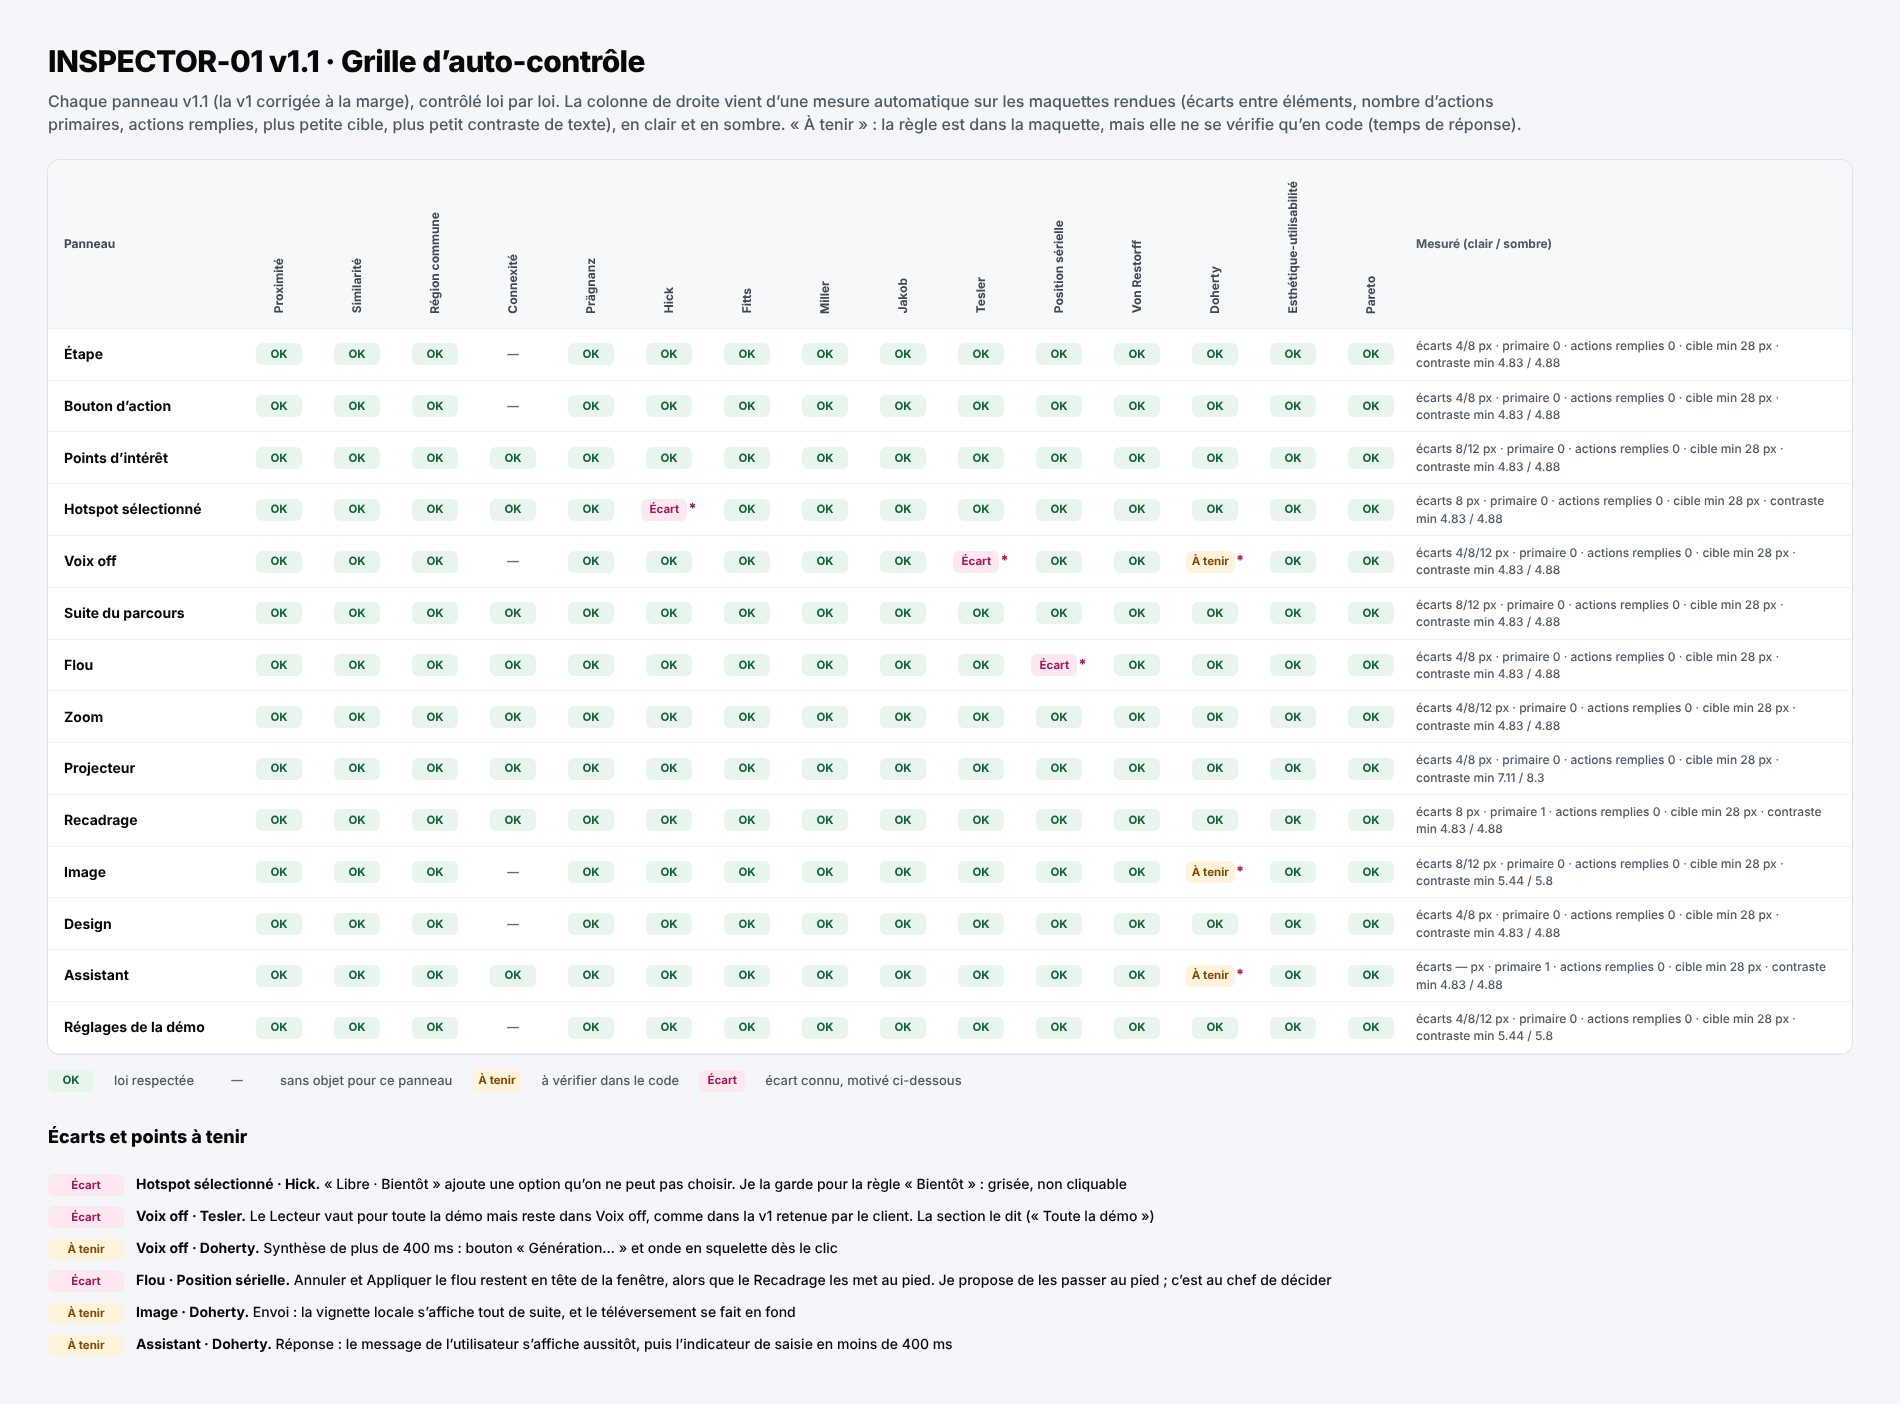
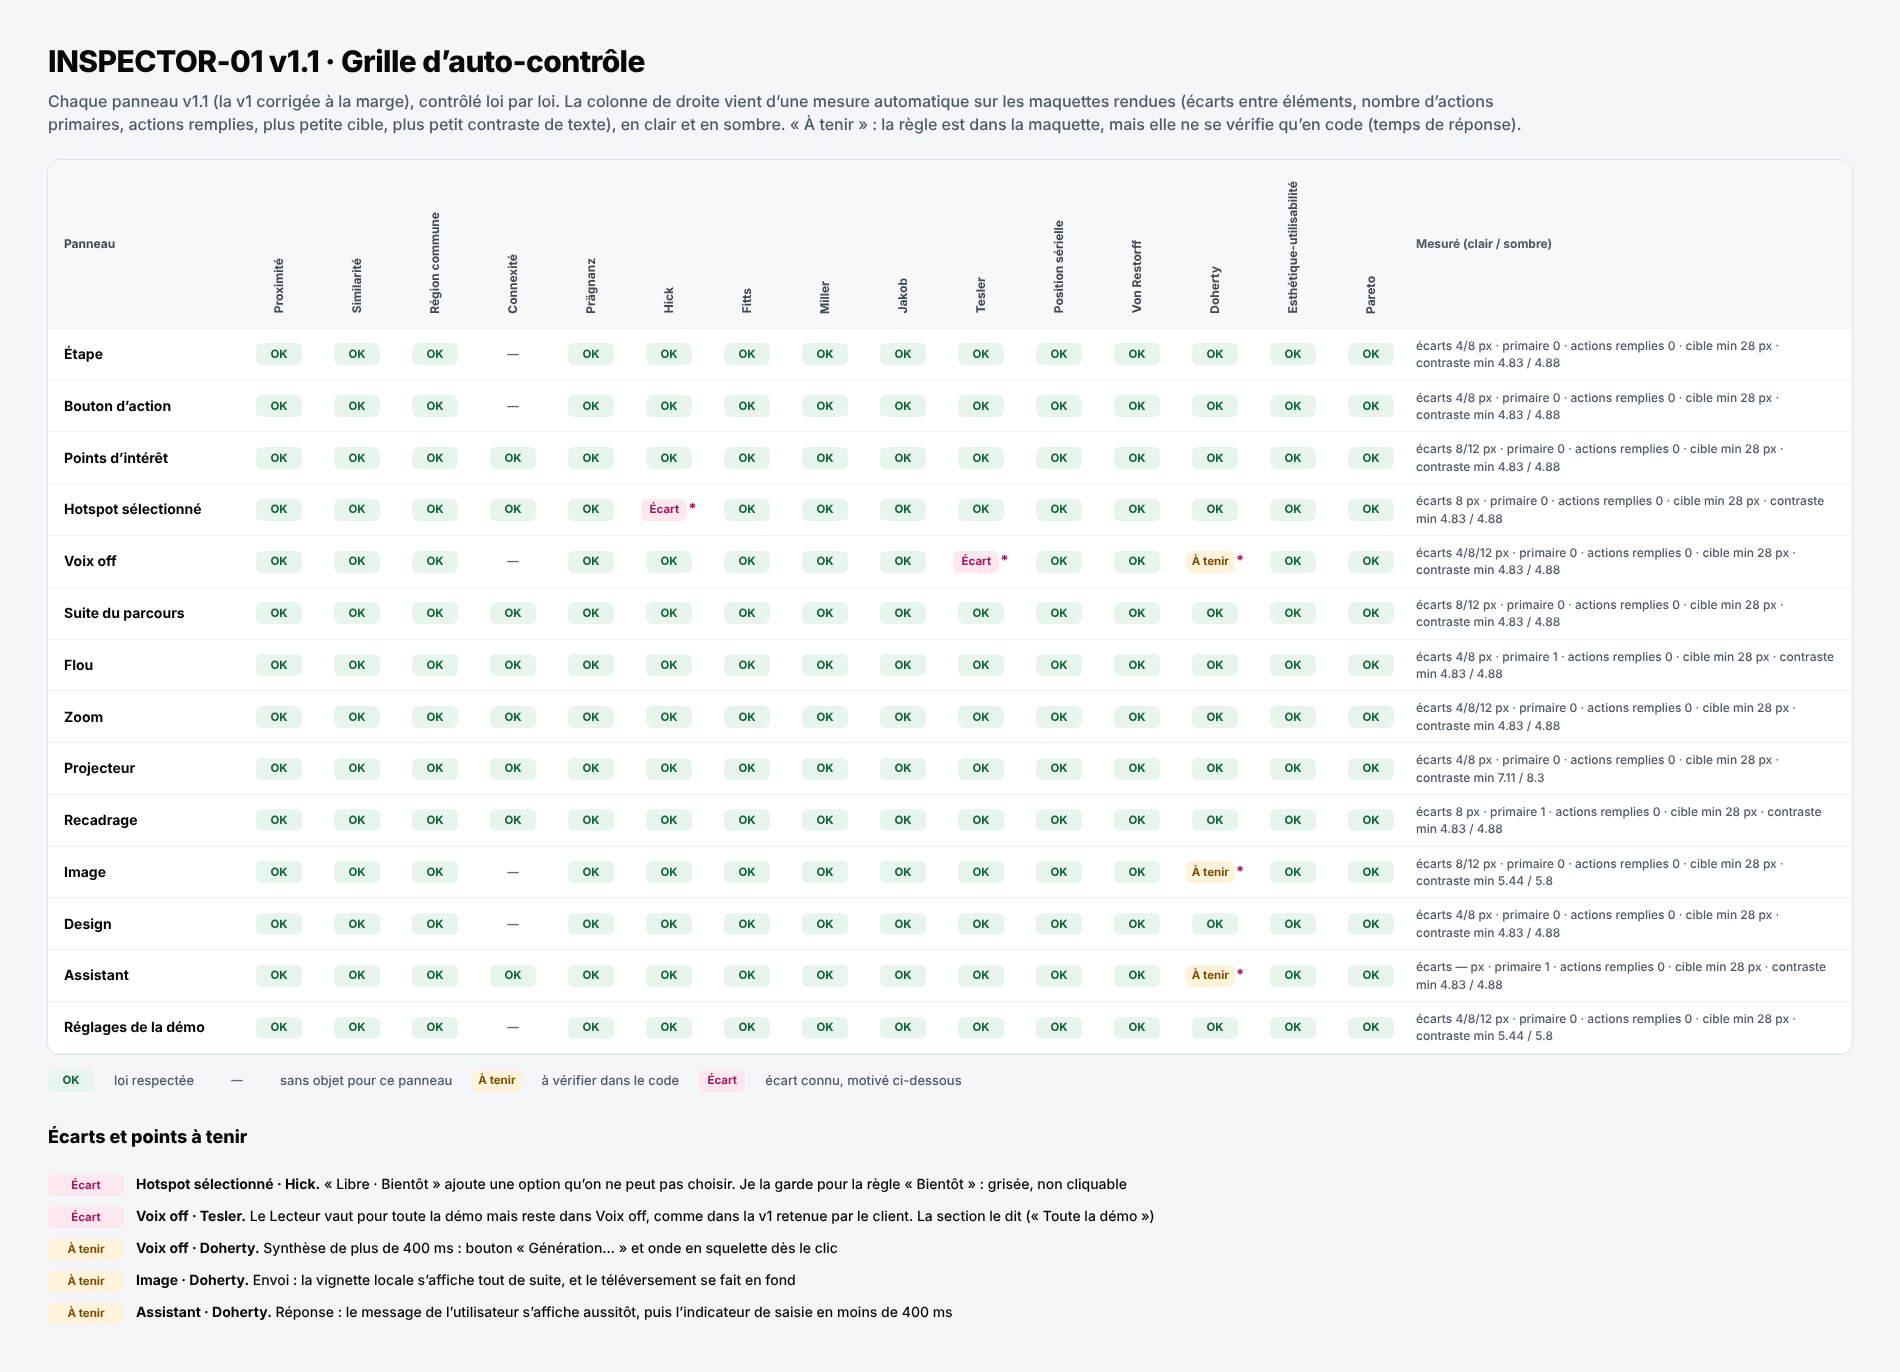
INSPECTOR-01 v1.1 : région « Synthèse » dans Voix off, actions du Flou au pied (décision du chef)
Claude-Session: https://claude.ai/code/session_016yn81XNDaqi4emq7ho6CNv

diff --git a/docs/ux/propositions/inspector-01/v1-1.css b/docs/ux/propositions/inspector-01/v1-1.css
@@ -64,3 +64,8 @@
 .backrow .ib { margin-left: -8px; }
 .row .lab.wide { width: auto; flex: 1; font-size: 12px; }
 .btn.line.sm { height: 28px; }
+
+/* Région commune : Langue et Voix de la synthèse sur une même surface */
+.region { border-radius: var(--fd-radius-surface); background: var(--fd-insp-bg); box-shadow: inset 0 0 0 1px var(--fd-insp-sep); padding: 4px 8px 8px; display: flex; flex-direction: column; gap: 4px; }
+.region .rt { font-size: 11px; font-weight: 650; color: var(--fd-insp-meta); height: 20px; display: flex; align-items: center; }
+.region .lab { width: 76px; }

diff --git a/docs/ux/specs/inspector-01.md b/docs/ux/specs/inspector-01.md
@@ -27,7 +27,7 @@ Source : lawsofux.com/fr. La v1 est gardée telle quelle ; chaque loi ne change 
 | --- | --- | --- |
 | **Proximité** | L'écart dit le lien : **4 px** entre deux lignes d'un groupe, **8 px** du titre de section au contenu, **12 px** d'un groupe à l'action qui en dépend, **25 px** entre deux sections (12 + filet + 12). | Titre → contenu passe de 6 à 8 px ; l'action passe de 4 à 12 px sous son groupe (« Régénérer la voix », « Ajouter un hotspot », « Ajouter une règle », « Centrer sur le hotspot », « Remplacer la capture »…). |
 | **Similarité** | Un champ est gris rempli, sans contour (v1). Une action ne l'est **jamais** : secondaire = contour de 1 px sur fond transparent (`.btn.line`), primaire = fond de marque, destructive = texte rouge au pied. | « Régénérer la voix », « Garder l'actuelle », « Annuler » et « Ignorer » perdent leur fond gris et prennent un contour. Tous les réglages oui / non sont des interrupteurs (la case « Animation de pulsation » du Hotspot en devient un). |
-| **Région commune** | Ce qui forme un tout est posé sur une même surface : carte de la voix, carte « Nouvelle voix », chaque règle de Suite du parcours, la proposition de l'Assistant. | Les règles de Suite du parcours ont chacune leur surface encadrée. |
+| **Région commune** | Ce qui forme un tout est posé sur une même surface : carte de la voix, carte « Nouvelle voix », chaque règle de Suite du parcours, la proposition de l'Assistant. | Voix off : Langue et Voix forment la région « Synthèse », et « Régénérer la voix » est posé 12 px dessous, hors de la région. Les règles de Suite du parcours ont chacune leur surface encadrée. |
 | **Connexité** | Le lien entre deux objets se dessine : flèche « Alors aller à » entre condition et destination ; pastille numérotée identique au canevas ; cadre de zoom, halo et cadrage montrés sur la vignette de la capture. | Aperçus en tête de Recadrage (repris de la v2), de Zoom et de Projecteur. |
 | **Prägnanz** | Une colonne, des lignes « libellé \| contrôle » de 36 px, un seul rayon par niveau ; pas de paragraphe visible, les aides sont derrière « ? ». | Les paragraphes de Zoom, Projecteur et Hotspot passent derrière « ? ». |
 | **Hick** | 5 options au plus dans un segmenté ; au-delà, une liste. Les réglages rares sont repliés. | Réglages de la démo : 5 sections repliées avec leur résumé (Lecture, Variables, Jeu de données, Collaboration, Notes de la démo). |
@@ -64,9 +64,9 @@ Les jetons du §1 ne changent pas. Les ajouts sont dans `docs/ux/propositions/in
 | Bouton d'action | Lignes Libellé, Lien | Interrupteur sur sa ligne et aperçu du bouton. |
 | Points d'intérêt | — | Liste de lignes de 36 px, avec la pastille du canevas ; « Ajouter un hotspot » à contour, 12 px dessous. |
 | Hotspot sélectionné | Segmenté Guidage ; X / Y / L / H en 2 × 2, comme la Zone du Recadrage | Retour ‹ ; aperçu de la bulle ; Pulsation en interrupteur. |
-| Voix off | **Inchangée** : Source IA · Micro · Fichier et point vert, carte « Voix en place », Texte lu, Langue, Voix, Lecteur | Régénérer à contour et 12 px sous Voix ; « Garder l'actuelle » à contour ; ⋯ à 28 px ; « Toute la démo » sur Lecteur. |
+| Voix off | **Inchangée** : Source IA · Micro · Fichier et point vert, carte « Voix en place », Texte lu, Langue, Voix, Lecteur | Langue et Voix dans la région « Synthèse » ; Régénérer à contour, 12 px sous la région ; « Garder l'actuelle » à contour ; ⋯ à 28 px ; « Toute la démo » sur Lecteur. |
 | Suite du parcours | Listes déroulantes v1 | Règle sur sa surface, flèche, erreur sous le champ ; « Ajouter une règle » à contour. |
-| Flou | Segmenté Flou / Pixels / Masque | Liste des zones, réglages de la zone choisie. |
+| Flou | OK | OK | OK | OK | OK | OK | OK | OK | OK | OK | OK | OK | OK | OK | OK |
 | Zoom | Segmentés Niveau et Transition ; H / V | Interrupteur pleine ligne ; cadre sur la vignette ; « Centrer sur le hotspot » à contour. |
 | Projecteur | — | Halo sur la vignette ; Taille et Assombrir en curseurs ; aides derrière « ? ». |
 | Recadrage | **Inchangé** : Format, Zone L / H / X / Y avec lien, Appliquer à, pied Réinitialiser / Annuler / Recadrer | Aperçu du cadrage en tête ; Annuler à contour. |
@@ -109,7 +109,6 @@ Légende :
 Écarts et points à tenir :
 - **Hotspot sélectionné · Hick (écart)** : « Libre · Bientôt » ajoute une option qu'on ne peut pas choisir. Je la garde pour la règle « Bientôt » : grisée, non cliquable.
 - **Voix off · Tesler (écart)** : le Lecteur vaut pour toute la démo mais reste dans Voix off, comme dans la v1 retenue par le client. La section porte « Toute la démo ».
-- **Flou · Position sérielle (écart)** : Annuler et Appliquer le flou restent en tête de la fenêtre, alors que le Recadrage les met au pied. Je propose de les passer au pied ; c'est au chef de décider.
 - **Voix off, Assistant, Image · Doherty (à tenir)** : un état dès le clic au-delà de 400 ms.
 
 e2e à ajouter, sur chaque panneau ouvert, en clair et en sombre :
